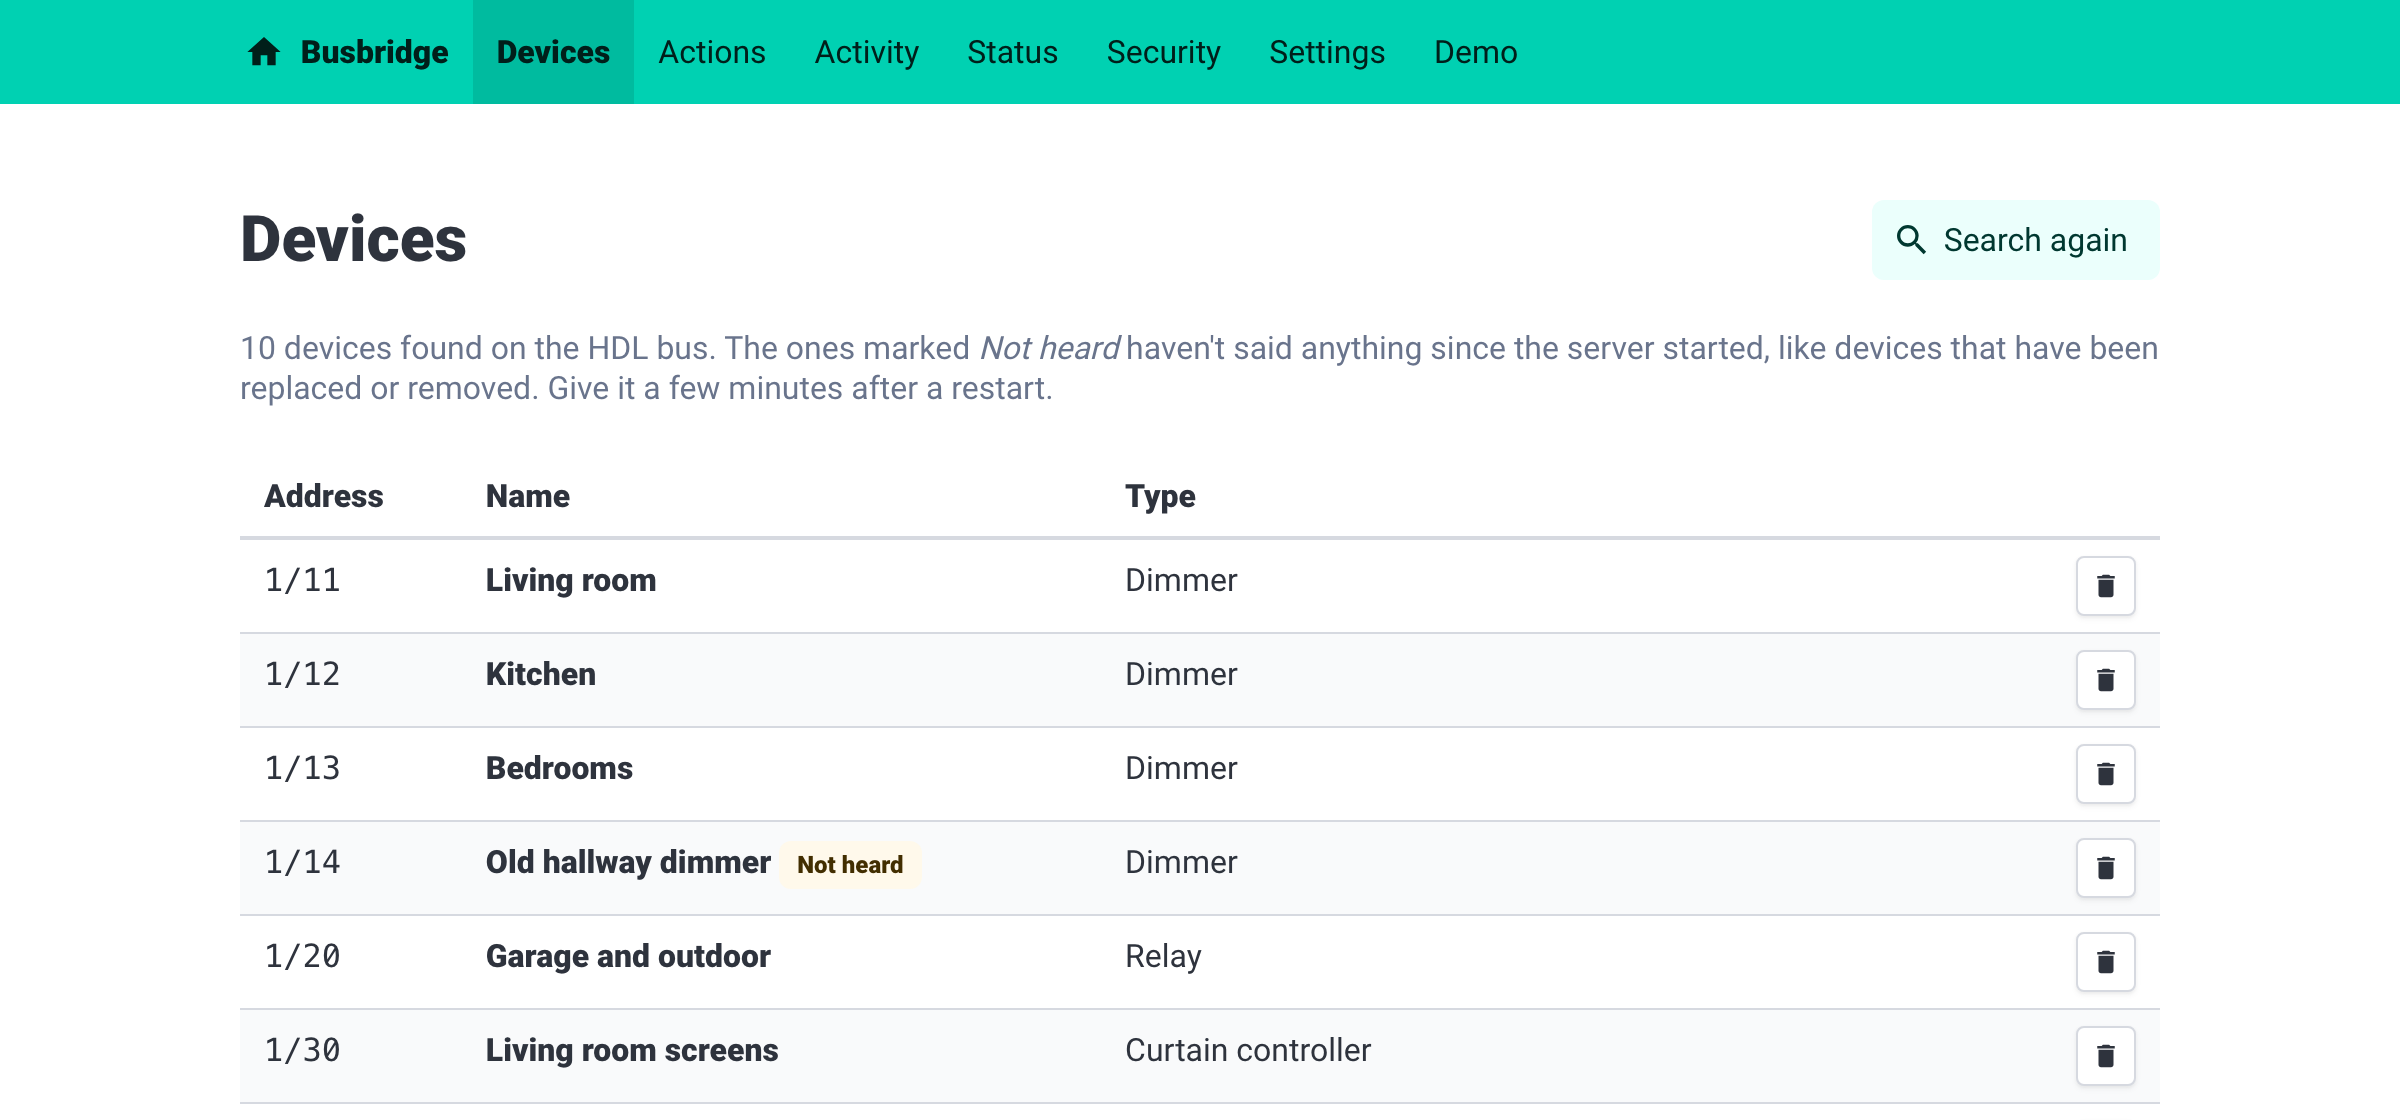
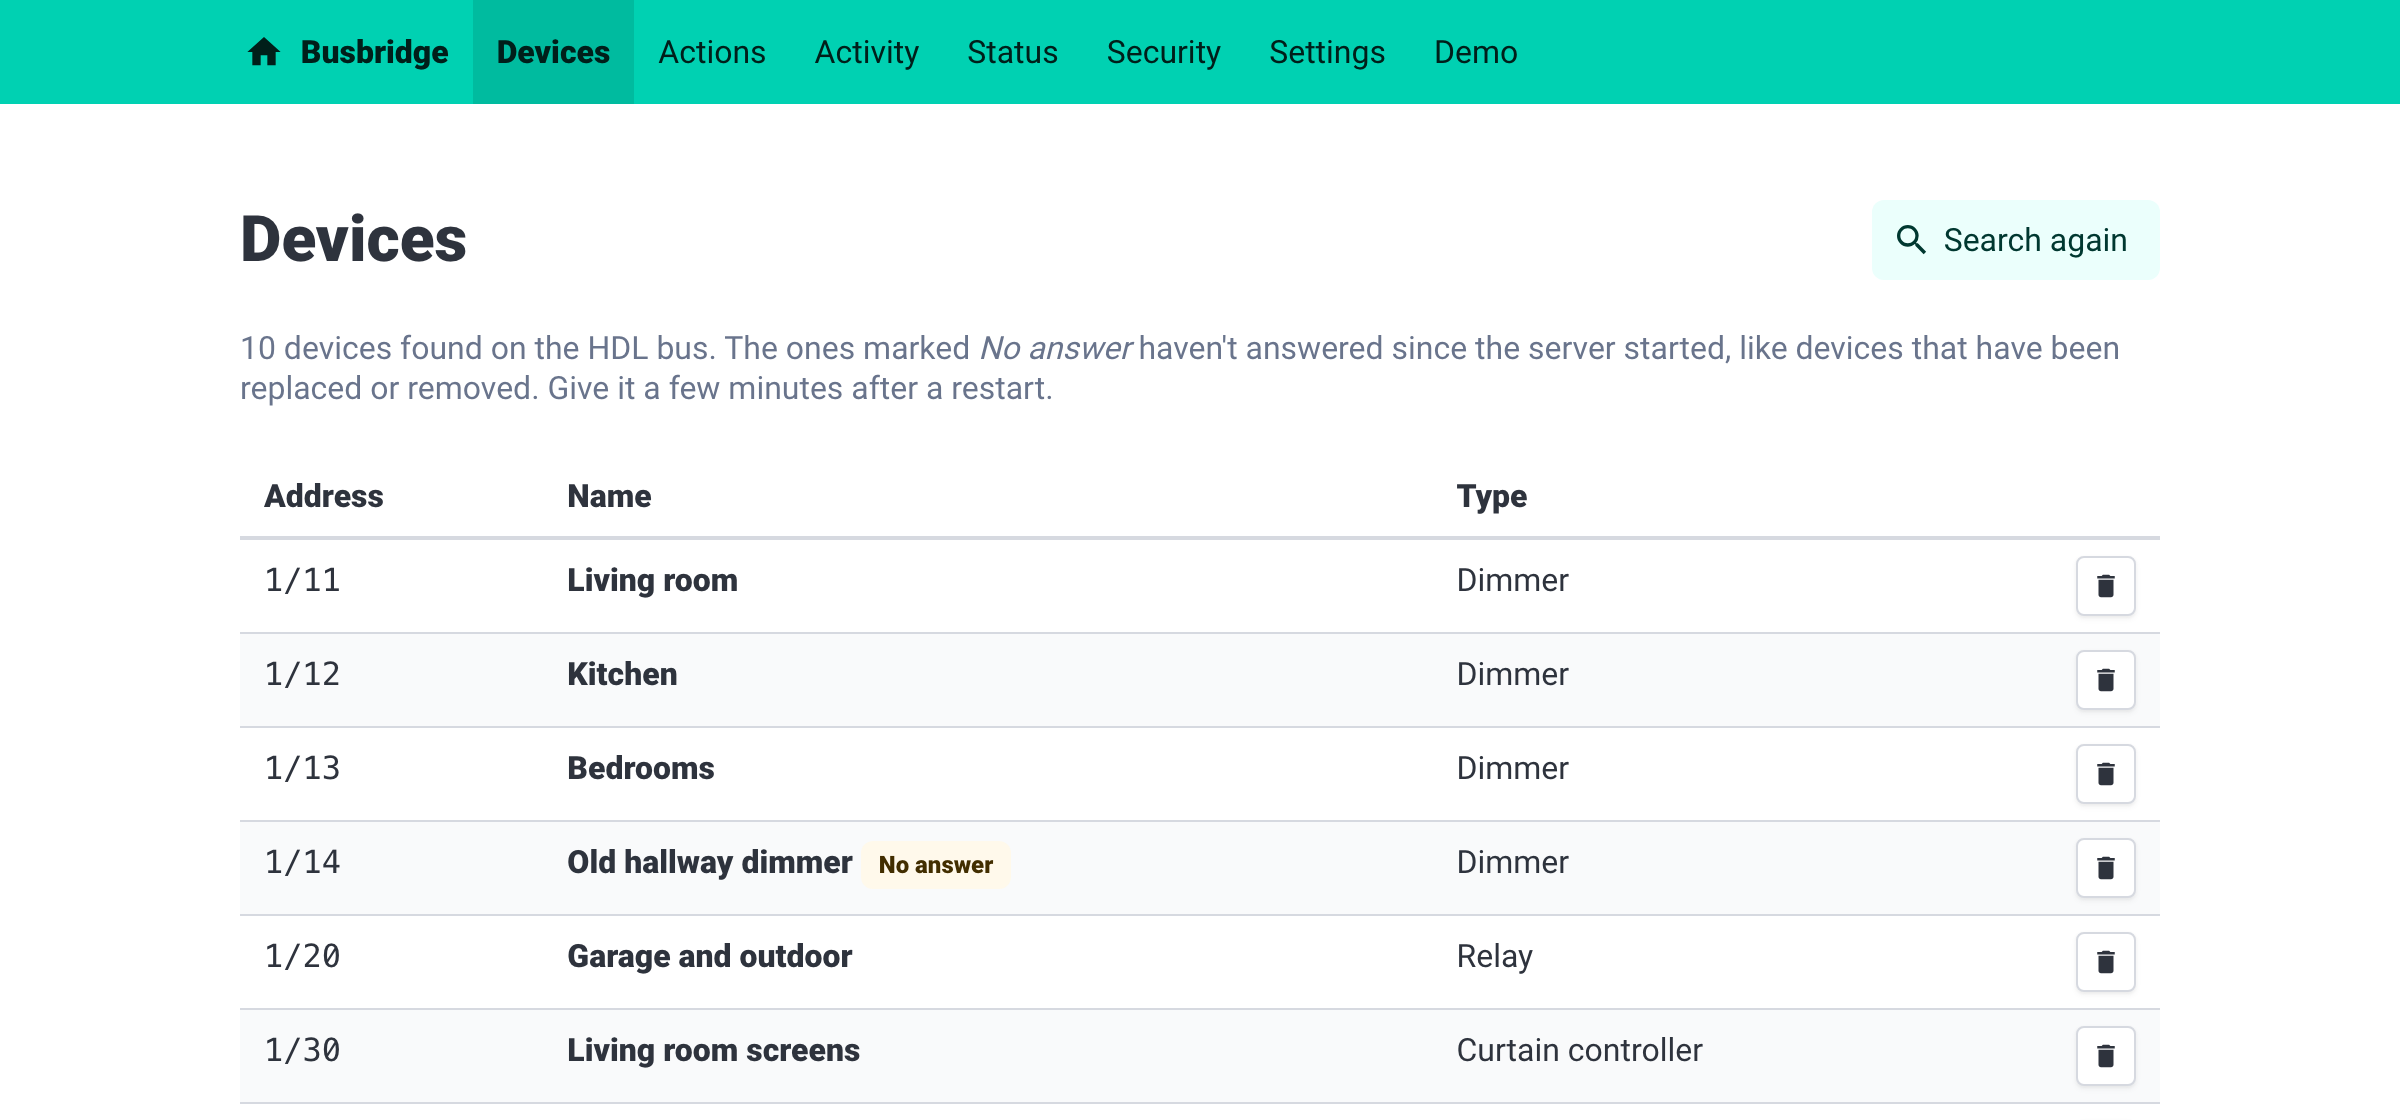
Devices that haven't answered since the server started are marked No answer, instead of Not heard, like the app says.

diff --git a/src/test/java/com/roysolberg/java/hdlserver/TemplatesTest.java b/src/test/java/com/roysolberg/java/hdlserver/TemplatesTest.java
@@ -229,8 +229,8 @@ class TemplatesTest {
 
         String html = render("index", page, "heard", Collections.singleton("1-40-600"));
 
-        assertEquals(1, html.split("Not heard</span>").length - 1, "Only the one that hasn't been heard");
-        assertTrue(html.indexOf("Not heard</span>") > html.indexOf("Old dimmer"));
+        assertEquals(1, html.split("No answer</span>").length - 1, "Only the one that hasn't answered");
+        assertTrue(html.indexOf("No answer</span>") > html.indexOf("Old dimmer"));
         assertTrue(html.contains("data-open=\"removeComponent-1-41-600\""));
         assertTrue(html.contains("<input type=\"hidden\" name=\"componentId\" value=\"1-41-600\"/>"));
         assertTrue(html.contains("Remove Old dimmer (1/41)?"));
